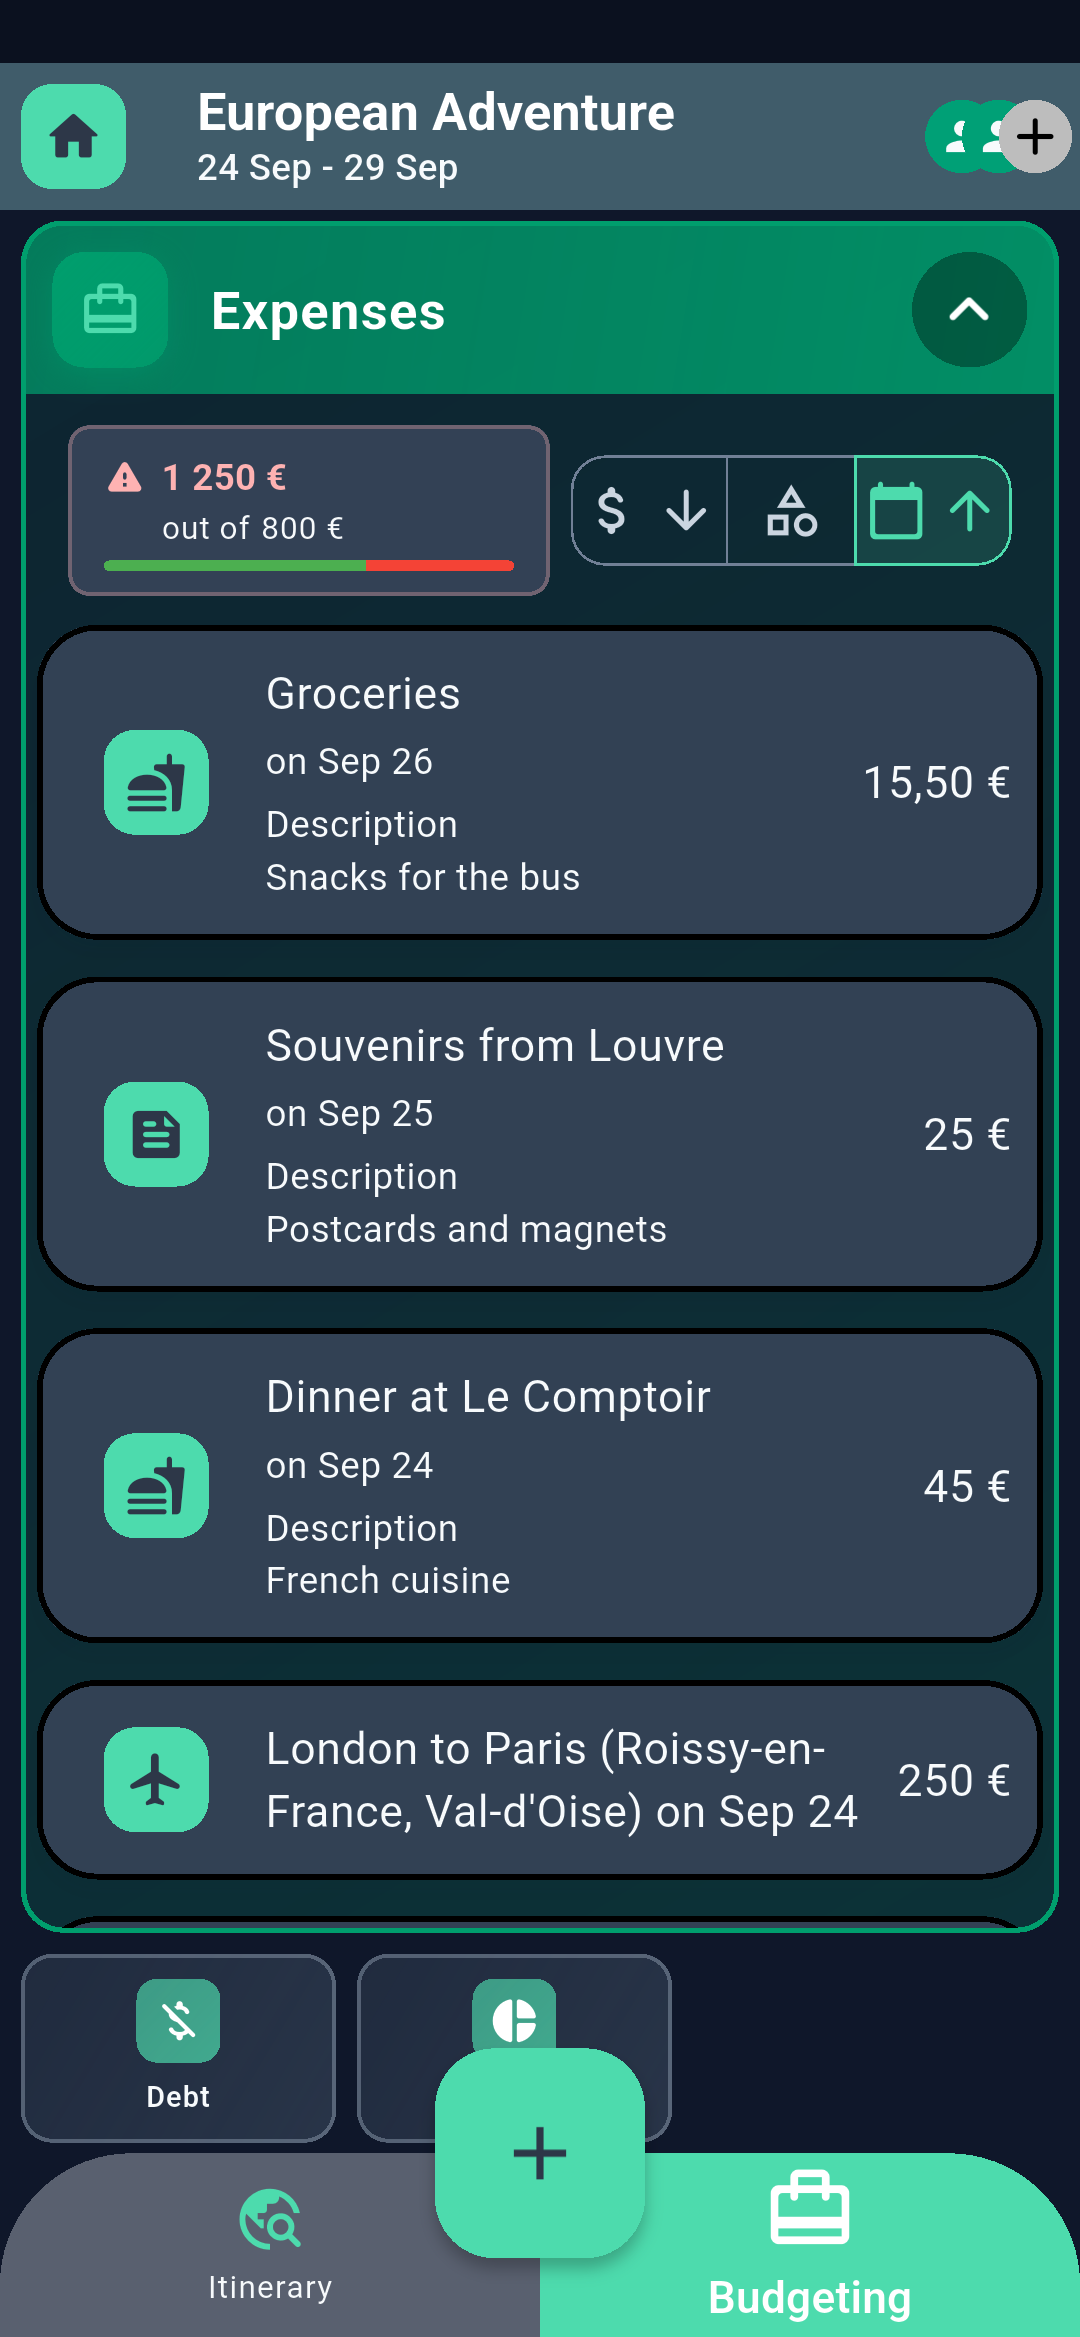
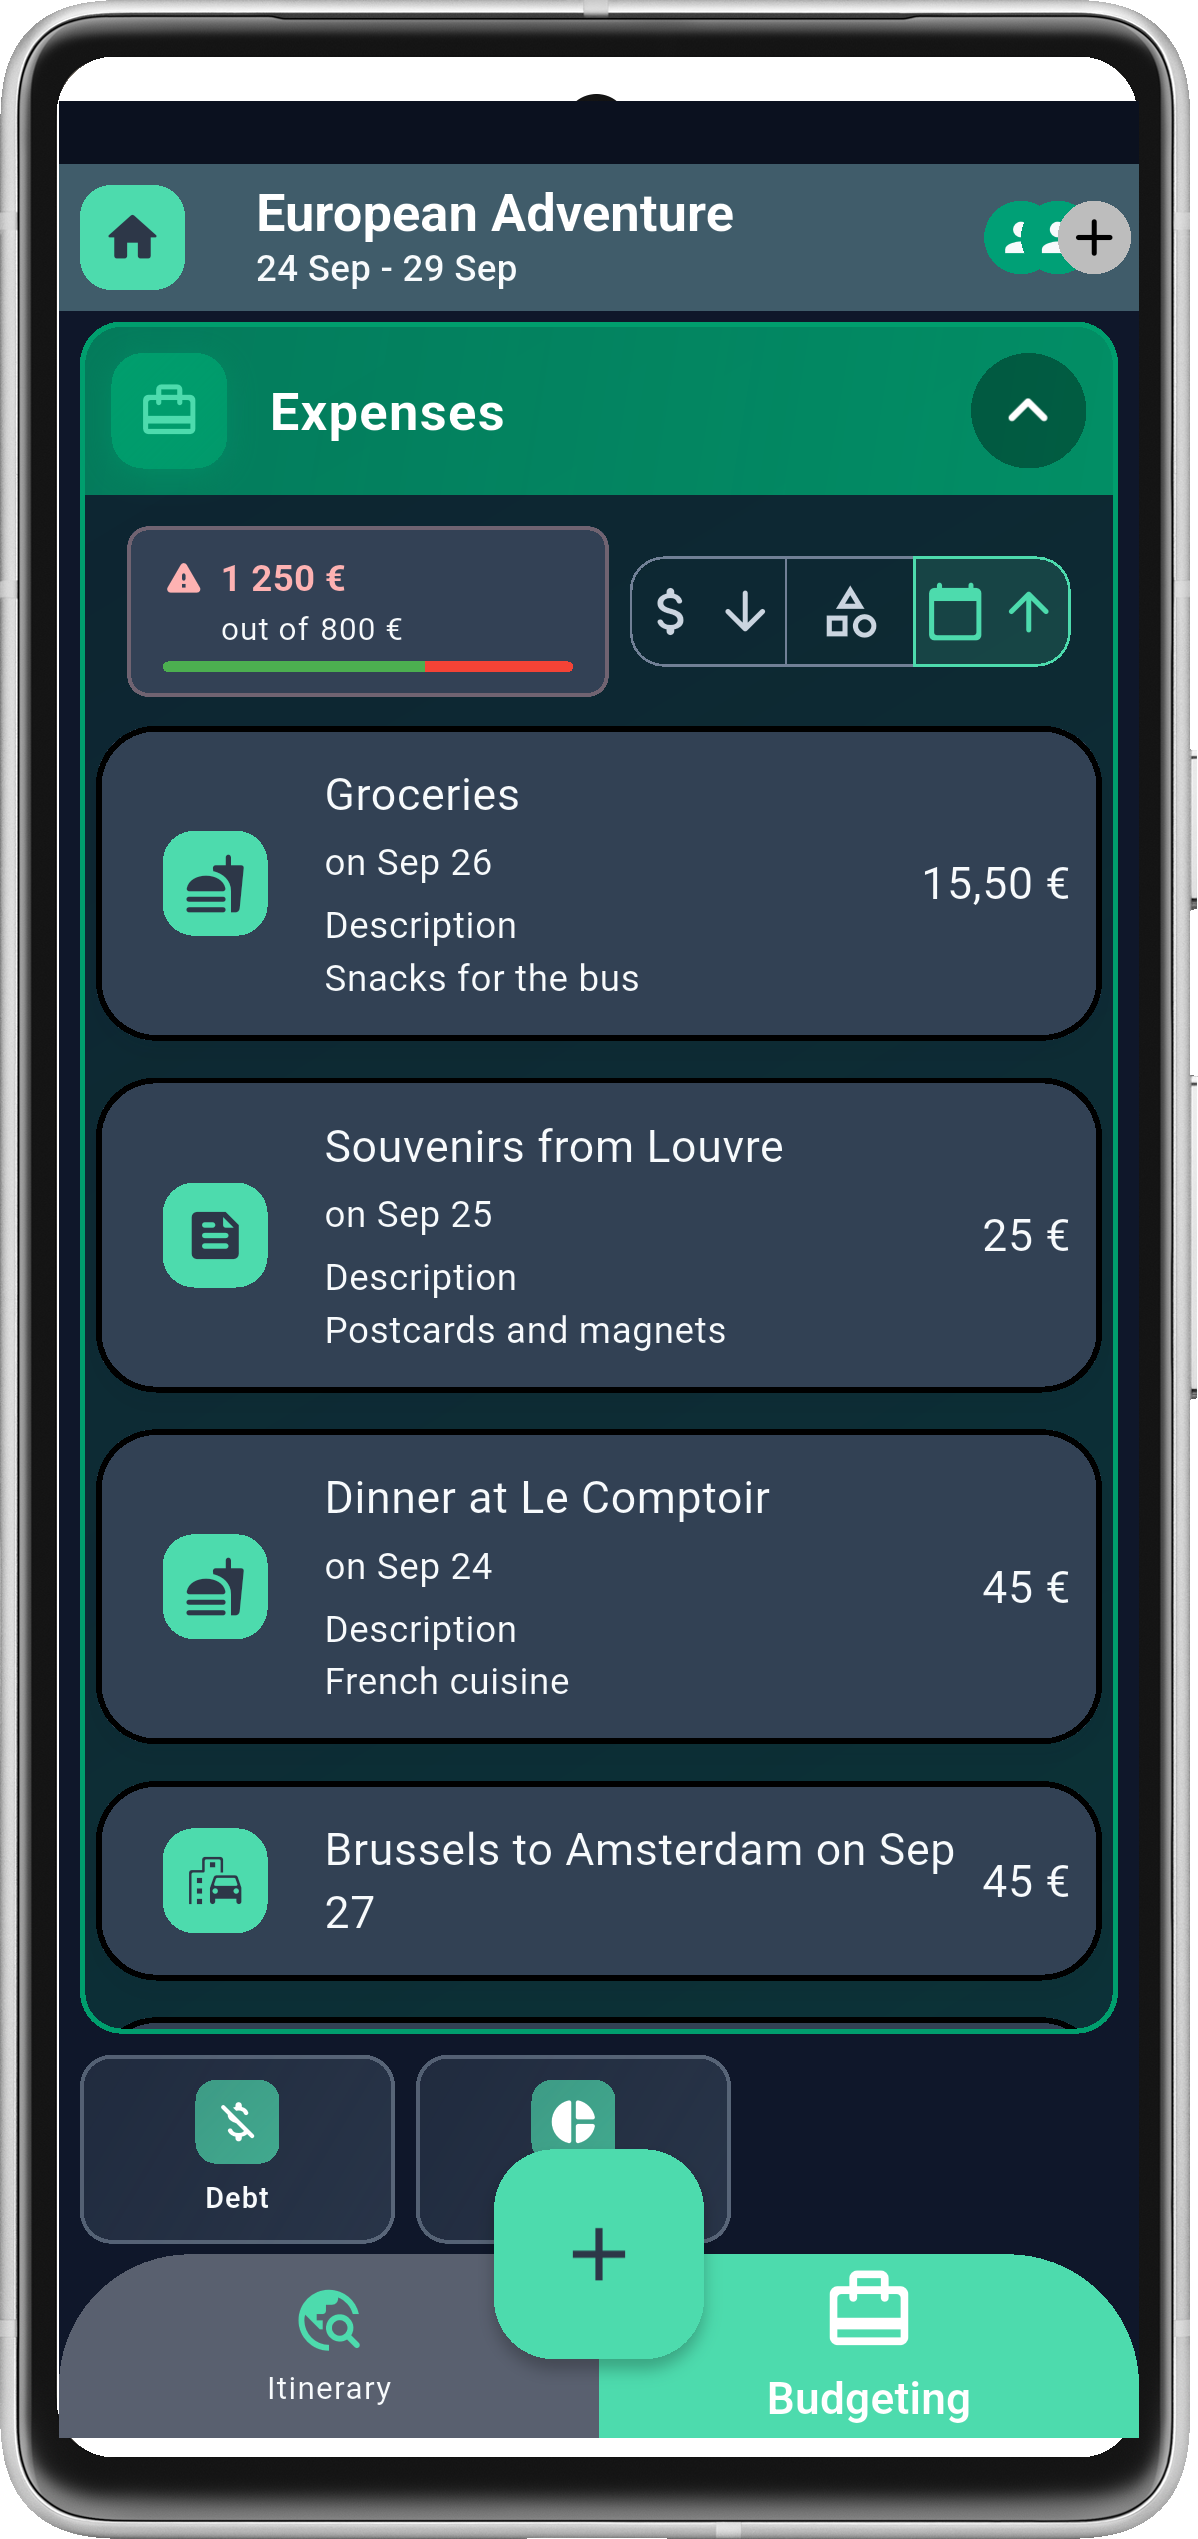
test(integration): Implement automated device framing for screenshots
This commit enhances the integration test driver to automatically overlay device frames onto captured screenshots, creating more realistic visual artifacts for phone and tablet form factors.

- **Screenshot Driver (`driver.dart`):**
  - Integrated the `image` package to handle image decoding and composition.
  - Implemented `_overlayScreenshotOnFrame` to center and composite raw screenshots onto device frame assets.
  - Added logic to detect device type (phone vs. tablet) based on filename prefixes and apply the corresponding frame.

- **Dependencies:**
  - Added `image` package to `dev_dependencies` in `pubspec.yaml`.

- **Assets & Artifacts:**
  - Added `phone_frame.png` and `tablet_frame.png` to `integration_test/screenshot_capturer/`.
  - Updated existing phone screenshots in `screenshots/phone/` to reflect the new framed format.

diff --git a/integration_test/screenshot_capturer/driver.dart b/integration_test/screenshot_capturer/driver.dart
@@ -1,5 +1,7 @@
 import 'dart:io';
+import 'dart:typed_data';
 
+import 'package:image/image.dart' as img;
 import 'package:integration_test/integration_test_driver_extended.dart';
 
 /// Test driver for integration tests
@@ -22,6 +24,8 @@ Future<void> main() async {
       // Determine folder and clean filename based on prefix
       String folderName;
       String cleanFileName;
+      bool isPhone = false;
+      bool isTablet = false;
 
       final prefixMap = {
         'phone_': 'phone',
@@ -33,6 +37,8 @@ Future<void> main() async {
         if (screenshotName.startsWith(prefix)) {
           folderName = name;
           cleanFileName = screenshotName.substring(prefix.length);
+          if (name == 'phone') isPhone = true;
+          if (name == 'tablet') isTablet = true;
         }
       });
 
@@ -43,11 +49,87 @@ Future<void> main() async {
         await deviceDir.create(recursive: true);
       }
 
+      // Post-process: overlay screenshot onto device frame
+      List<int> finalImageBytes = screenshotBytes;
+
+      if (isPhone || isTablet) {
+        try {
+          finalImageBytes = await _overlayScreenshotOnFrame(
+            screenshotBytes,
+            isPhone: isPhone,
+          );
+          print('Successfully processed screenshot with device frame');
+        } catch (e) {
+          print('Error processing screenshot: $e');
+          print('Saving original screenshot without frame');
+        }
+      }
+
       final File imageFile = File('${deviceDir.path}/$cleanFileName.png');
-      await imageFile.writeAsBytes(screenshotBytes);
+      await imageFile.writeAsBytes(finalImageBytes);
 
       print('Saved screenshot to: ${imageFile.path}');
       return true;
     },
   );
+}
+
+/// Overlays a screenshot onto a device frame image
+///
+/// Phone specs: Frame 1198x2539, Screenshot 1080x2337
+/// Tablet specs: Frame 2798x1837, Screenshot 2560x1600
+Future<List<int>> _overlayScreenshotOnFrame(
+  List<int> screenshotBytes, {
+  required bool isPhone,
+}) async {
+  // Load the screenshot
+  final screenshotUint8List = Uint8List.fromList(screenshotBytes);
+  final screenshot = img.decodeImage(screenshotUint8List);
+  if (screenshot == null) {
+    throw Exception('Failed to decode screenshot');
+  }
+
+  // Load the appropriate device frame
+  final framePath = isPhone
+      ? 'integration_test/screenshot_capturer/phone_frame.png'
+      : 'integration_test/screenshot_capturer/tablet_frame.png';
+
+  final frameFile = File(framePath);
+  if (!await frameFile.exists()) {
+    throw Exception('Device frame not found at: $framePath');
+  }
+
+  final frameBytes = await frameFile.readAsBytes();
+  final frame = img.decodeImage(frameBytes);
+  if (frame == null) {
+    throw Exception('Failed to decode device frame');
+  }
+
+  // Calculate position to center the screenshot on the frame
+  // Phone: Frame 1198x2539, Screenshot 1080x2337
+  // Tablet: Frame 2798x1837, Screenshot 2560x1600
+  final int offsetX;
+  final int offsetY;
+
+  if (isPhone) {
+    // Phone frame dimensions: 1198x2539, screenshot: 1080x2337
+    offsetX = (1198 - 1080) ~/ 2; // Center horizontally
+    offsetY = (2539 - 2337) ~/ 2; // Center vertically
+  } else {
+    // Tablet frame dimensions: 2798x1837, screenshot: 2560x1600
+    offsetX = (2798 - 2560) ~/ 2; // Center horizontally
+    offsetY = (1837 - 1600) ~/ 2; // Center vertically
+  }
+
+  // Composite the screenshot onto the frame
+  final composite = img.compositeImage(
+    frame,
+    screenshot,
+    dstX: offsetX,
+    dstY: offsetY,
+  );
+
+  // Encode the final image as PNG
+  final finalBytes = img.encodePng(composite);
+  return finalBytes;
 }
